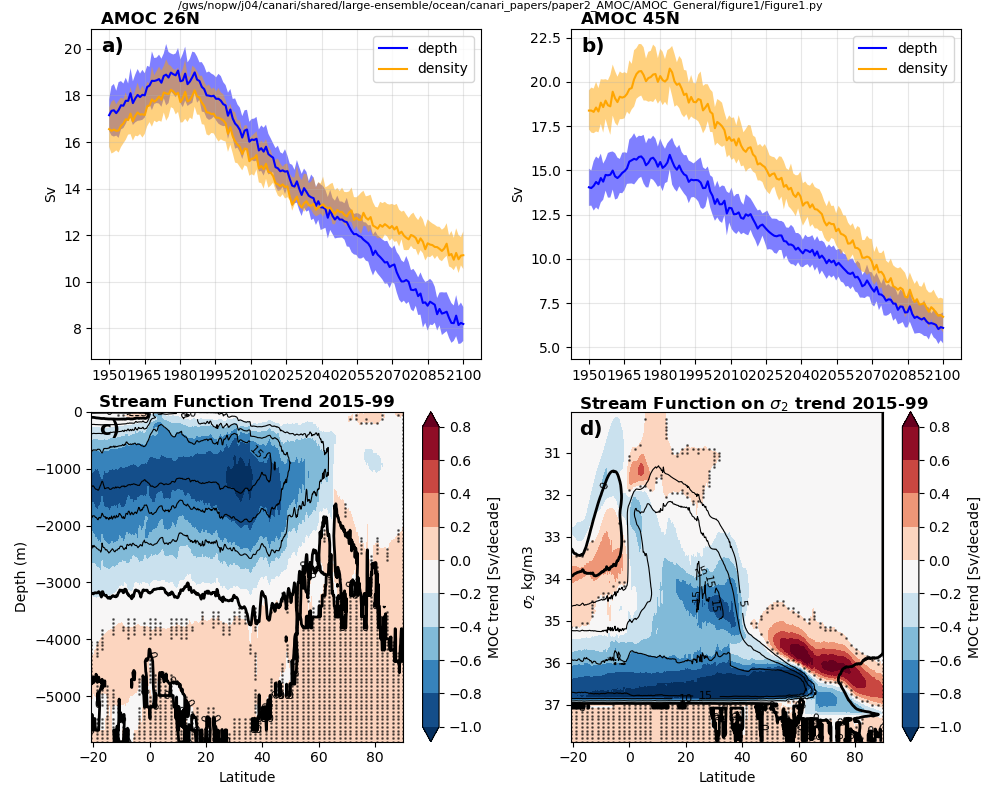
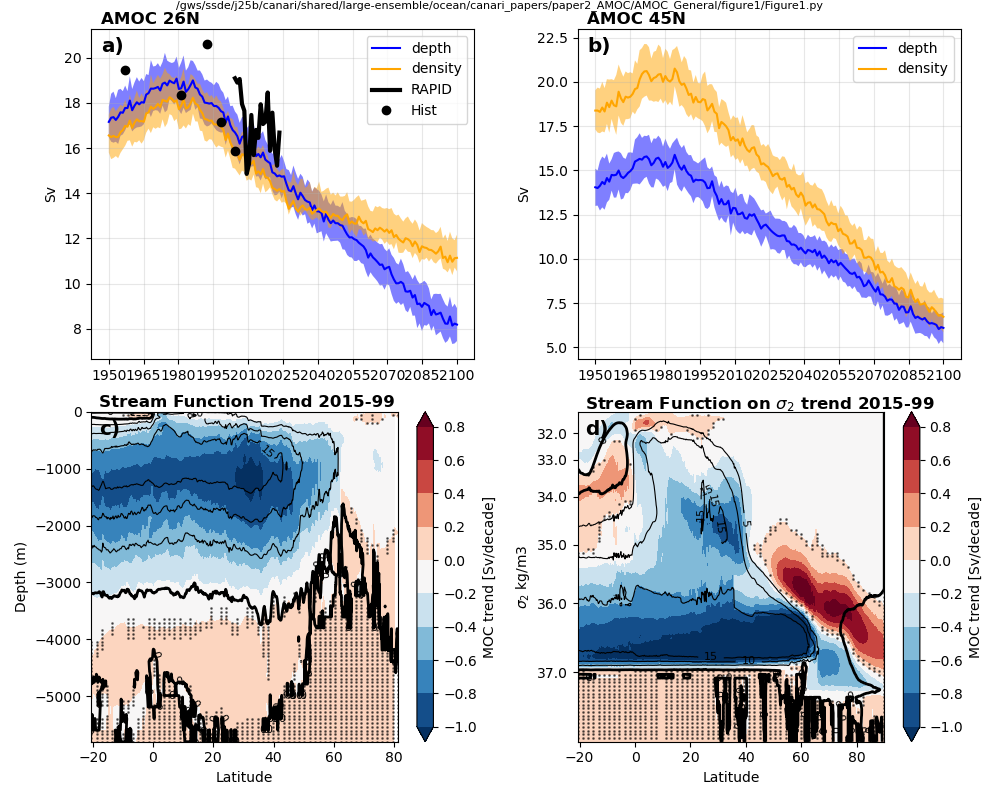
Update plots

diff --git a/CANARI/AMOC_Papers/Figure1/Figure1_3f674276.html b/CANARI/AMOC_Papers/Figure1/Figure1_3f674276.html
@@ -1,0 +1,38 @@
+<!DOCTYPE html>
+<html>
+<head>
+  <meta charset="utf-8">
+  <title>CANARI AMOC 26N, 45N and Stream functions in Z and on Sigma2</title>
+  <style>
+    body {
+      font-family: sans-serif;
+      text-align: center;
+      padding: 2em;
+    }
+    .nav {
+      margin-bottom: 2em;
+    }
+    img {
+      max-width: 90%;
+      height: auto;
+    }
+    .title {
+      font-size: 1.5em;
+      margin-top: 1em;
+    }
+    .path {
+      font-style: italic;
+      color: #666;
+      margin-top: 0.5em;
+    }
+  </style>
+</head>
+<body>
+<div class="nav">
+    <a href="index.html">⬅ Back to gallery</a>
+  </div>
+  <img src="Figure1.png" alt="CANARI AMOC 26N, 45N and Stream functions in Z and on Sigma2">
+  <div class="title">CANARI AMOC 26N, 45N and Stream functions in Z and on Sigma2</div>
+  <div class="path">/gws/ssde/j25b/canari/shared/large-ensemble/ocean/canari_papers/paper2_AMOC/AMOC_General/figure1/Figure1.png</div>
+</body>
+</html>